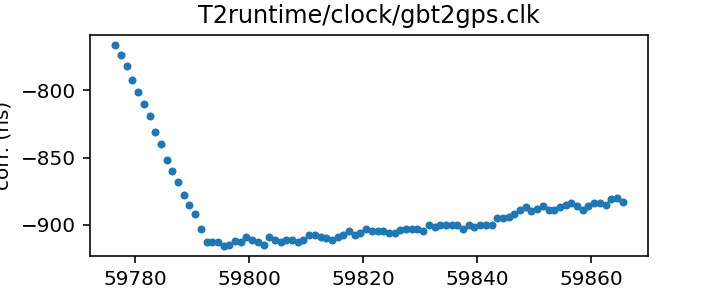
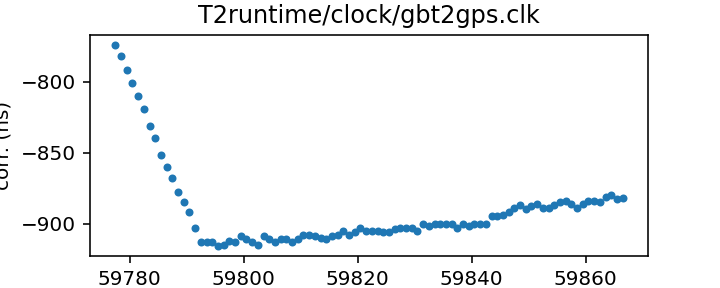
Routine gh-pages update from Github action Sat Oct 15 20:41:13 UTC 2022

diff --git a/status.md b/status.md
@@ -13,17 +13,17 @@ name of each clock file links to a page with more details.
 
 | Name | File | Corrections start | Corrections end | Last check date | Last check result 
 |:--- |:--- | --- | --- | --- |:--- 
-| [GPS to UTC](T2runtime/clock/gps2utc.clk.html) | `T2runtime/clock/gps2utc.clk` | 1993-01-01 MJD 48988.0 | 2022-09-27 MJD 59849.0 | 2022-10-14 | Unchanged 
-| [GPS to UTC (Combined Clock)](T2runtime/clock/gps2utc_cc.clk.html) | `T2runtime/clock/gps2utc_cc.clk` | 1993-01-01 MJD 48988.0 | 2022-09-27 MJD 59849.0 | 2022-10-14 | Unchanged 
-| [GPS to UTC (Corrected)](T2runtime/clock/gps2utc_c0p.clk.html) | `T2runtime/clock/gps2utc_c0p.clk` | 2010-12-29 MJD 55559.0 | 2022-09-27 MJD 59849.0 | 2022-10-14 | Unchanged 
-| [GBT](tempo/clock/time_gbt.dat.html) | `tempo/clock/time_gbt.dat` | 2000-12-31 MJD 51909.5 | 2022-10-13 MJD 59865.5 | 2022-10-14 | Updated 
-| [GBT (TEMPO2 converted from TEMPO)](T2runtime/clock/gbt2gps.clk.html) | `T2runtime/clock/gbt2gps.clk` | 2000-12-31 MJD 51909.5 | 2022-10-13 MJD 59865.5 | 2022-10-14 | Updated 
+| [GPS to UTC](T2runtime/clock/gps2utc.clk.html) | `T2runtime/clock/gps2utc.clk` | 1993-01-01 MJD 48988.0 | 2022-09-27 MJD 59849.0 | 2022-10-15 | Unchanged 
+| [GPS to UTC (Combined Clock)](T2runtime/clock/gps2utc_cc.clk.html) | `T2runtime/clock/gps2utc_cc.clk` | 1993-01-01 MJD 48988.0 | 2022-09-27 MJD 59849.0 | 2022-10-15 | Unchanged 
+| [GPS to UTC (Corrected)](T2runtime/clock/gps2utc_c0p.clk.html) | `T2runtime/clock/gps2utc_c0p.clk` | 2010-12-29 MJD 55559.0 | 2022-09-27 MJD 59849.0 | 2022-10-15 | Unchanged 
+| [GBT](tempo/clock/time_gbt.dat.html) | `tempo/clock/time_gbt.dat` | 2000-12-31 MJD 51909.5 | 2022-10-14 MJD 59866.5 | 2022-10-15 | Updated 
+| [GBT (TEMPO2 converted from TEMPO)](T2runtime/clock/gbt2gps.clk.html) | `T2runtime/clock/gbt2gps.clk` | 2000-12-31 MJD 51909.5 | 2022-10-14 MJD 59866.5 | 2022-10-15 | Updated 
 | [Jodrell Bank](T2runtime/clock/jb2gps.clk.html) | `T2runtime/clock/jb2gps.clk` | 2006-10-13 MJD 54021.4 | 2021-11-03 MJD 59521.0 | 2022-10-12 | Unchanged 
 | [Jodrell Bank Roach](T2runtime/clock/jbroach2jb.clk.html) | `T2runtime/clock/jbroach2jb.clk` | 2006-10-13 MJD 54021.4 | 2018-03-20 MJD 58197.6 | 2022-10-12 | Unchanged 
 | [Jodrell Bank DFB](T2runtime/clock/jbdfb2jb.clk.html) | `T2runtime/clock/jbdfb2jb.clk` | 2006-10-13 MJD 54021.4 | 2017-05-11 MJD 57884.0 | 2022-10-12 | Unchanged 
 | [Meerkat (observatory)](T2runtime/clock/mk2utc_observatory.clk.html) | `T2runtime/clock/mk2utc_observatory.clk` | 2019-01-01 MJD 58484.0 | 2022-09-21 MJD 59844.0 | 2022-10-10 | Updated 
-| [Leap seconds](tempo/clock/leap.sec.html) | `tempo/clock/leap.sec` | 1972-07-01 MJD 41499.0 | 2017-01-01 MJD 57754.0 | 2022-10-14 | Unchanged 
-| [UT1 table](tempo/clock/ut1.dat.html) | `tempo/clock/ut1.dat` | 1973-01-02 MJD 41684.0 | 2023-10-21 MJD 60238.0 | 2022-10-14 | Unchanged 
+| [Leap seconds](tempo/clock/leap.sec.html) | `tempo/clock/leap.sec` | 1972-07-01 MJD 41499.0 | 2017-01-01 MJD 57754.0 | 2022-10-15 | Unchanged 
+| [UT1 table](tempo/clock/ut1.dat.html) | `tempo/clock/ut1.dat` | 1973-01-02 MJD 41684.0 | 2023-10-21 MJD 60238.0 | 2022-10-15 | Unchanged 
 
 
 

diff --git a/T2runtime/clock/gbt2gps.clk.md b/T2runtime/clock/gbt2gps.clk.md
@@ -23,14 +23,13 @@ If questions arise about the conversion, contact Anne Archibald
 | Format | tempo2 |
 | Bogus last correction | False |
 | Clock file start | 2000-12-31 MJD 51909.5 |
-| Clock file end | 2022-10-13 MJD 59865.5 |
+| Clock file end | 2022-10-14 MJD 59866.5 |
 | Update interval (days) | 1 |
-| Last update attempt | 2022-10-14 |
+| Last update attempt | 2022-10-15 |
 | Last update result | Updated |
 
 Log entries from the last few update attempts:
 ```
-2022-10-05 20:42:13.766 - Updated
 2022-10-06 20:41:51.390 - Updated
 2022-10-07 20:41:30.708 - Updated
 2022-10-08 20:39:39.580 - Updated
@@ -40,12 +39,13 @@ Log entries from the last few update attempts:
 2022-10-12 20:43:13.750 - Updated
 2022-10-13 20:42:36.560 - Updated
 2022-10-14 20:45:27.817 - Updated
+2022-10-15 20:40:47.403 - Updated
 ```
 [Full log](https://raw.githubusercontent.com/ipta/pulsar-clock-corrections/main/log/T2runtime/clock/gbt2gps.clk.log)
 
 Leading comments from clock file:
 
-    # This file was automatically converted from tempo/clock/time_gbt.dat on 2022-10-14 20:45:27.748
+    # This file was automatically converted from tempo/clock/time_gbt.dat on 2022-10-15 20:40:47.331
 
 
 

diff --git a/tempo/clock/time_gbt.dat.md b/tempo/clock/time_gbt.dat.md
@@ -18,14 +18,13 @@ If questions arise, contact Ryan S. Lynch <rlynch@nrao.edu>.
 | Format | tempo |
 | Bogus last correction | False |
 | Clock file start | 2000-12-31 MJD 51909.5 |
-| Clock file end | 2022-10-13 MJD 59865.5 |
+| Clock file end | 2022-10-14 MJD 59866.5 |
 | Update interval (days) | 1 |
-| Last update attempt | 2022-10-14 |
+| Last update attempt | 2022-10-15 |
 | Last update result | Updated |
 
 Log entries from the last few update attempts:
 ```
-2022-10-05 20:42:13.674 - Updated
 2022-10-06 20:41:51.320 - Updated
 2022-10-07 20:41:30.638 - Updated
 2022-10-08 20:39:39.511 - Updated
@@ -35,6 +34,7 @@ Log entries from the last few update attempts:
 2022-10-12 20:43:13.648 - Updated
 2022-10-13 20:42:36.488 - Updated
 2022-10-14 20:45:27.746 - Updated
+2022-10-15 20:40:47.329 - Updated
 ```
 [Full log](https://raw.githubusercontent.com/ipta/pulsar-clock-corrections/main/log/tempo/clock/time_gbt.dat.log)
 

diff --git a/T2runtime/clock/gps2utc_c0p.clk.md b/T2runtime/clock/gps2utc_c0p.clk.md
@@ -30,12 +30,11 @@ about the BIPM's published corrections, contact <tai@bipm.org>.
 | Clock file start | 2010-12-29 MJD 55559.0 |
 | Clock file end | 2022-09-27 MJD 59849.0 |
 | Update interval (days) | 1 |
-| Last update attempt | 2022-10-14 |
+| Last update attempt | 2022-10-15 |
 | Last update result | Unchanged |
 
 Log entries from the last few update attempts:
 ```
-2022-10-05 20:42:12.788 - Unchanged
 2022-10-06 20:41:50.814 - Unchanged
 2022-10-07 20:41:30.274 - Unchanged
 2022-10-08 20:39:38.994 - Unchanged
@@ -45,6 +44,7 @@ Log entries from the last few update attempts:
 2022-10-12 20:43:12.700 - Unchanged
 2022-10-13 20:42:35.977 - Unchanged
 2022-10-14 20:45:27.331 - Unchanged
+2022-10-15 20:40:46.508 - Unchanged
 ```
 [Full log](https://raw.githubusercontent.com/ipta/pulsar-clock-corrections/main/log/T2runtime/clock/gps2utc_c0p.clk.log)
 

diff --git a/T2runtime/clock/gps2utc_cc.clk.md b/T2runtime/clock/gps2utc_cc.clk.md
@@ -29,12 +29,11 @@ about the BIPM's published corrections, contact <tai@bipm.org>.
 | Clock file start | 1993-01-01 MJD 48988.0 |
 | Clock file end | 2022-09-27 MJD 59849.0 |
 | Update interval (days) | 1 |
-| Last update attempt | 2022-10-14 |
+| Last update attempt | 2022-10-15 |
 | Last update result | Unchanged |
 
 Log entries from the last few update attempts:
 ```
-2022-10-05 20:42:12.774 - Unchanged
 2022-10-06 20:41:50.803 - Unchanged
 2022-10-07 20:41:30.264 - Unchanged
 2022-10-08 20:39:38.983 - Unchanged
@@ -44,6 +43,7 @@ Log entries from the last few update attempts:
 2022-10-12 20:43:12.687 - Unchanged
 2022-10-13 20:42:35.966 - Unchanged
 2022-10-14 20:45:27.319 - Unchanged
+2022-10-15 20:40:46.497 - Unchanged
 ```
 [Full log](https://raw.githubusercontent.com/ipta/pulsar-clock-corrections/main/log/T2runtime/clock/gps2utc_cc.clk.log)
 

diff --git a/T2runtime/clock/gps2utc.clk.md b/T2runtime/clock/gps2utc.clk.md
@@ -32,12 +32,11 @@ about the BIPM's published corrections, contact <tai@bipm.org>.
 | Clock file start | 1993-01-01 MJD 48988.0 |
 | Clock file end | 2022-09-27 MJD 59849.0 |
 | Update interval (days) | 1 |
-| Last update attempt | 2022-10-14 |
+| Last update attempt | 2022-10-15 |
 | Last update result | Unchanged |
 
 Log entries from the last few update attempts:
 ```
-2022-10-05 20:42:12.730 - Unchanged
 2022-10-06 20:41:50.771 - Unchanged
 2022-10-07 20:41:30.232 - Unchanged
 2022-10-08 20:39:38.951 - Unchanged
@@ -47,6 +46,7 @@ Log entries from the last few update attempts:
 2022-10-12 20:43:12.646 - Unchanged
 2022-10-13 20:42:35.932 - Unchanged
 2022-10-14 20:45:27.287 - Unchanged
+2022-10-15 20:40:46.462 - Unchanged
 ```
 [Full log](https://raw.githubusercontent.com/ipta/pulsar-clock-corrections/main/log/T2runtime/clock/gps2utc.clk.log)
 

diff --git a/tempo/clock/leap.sec.md b/tempo/clock/leap.sec.md
@@ -21,12 +21,11 @@ If there are any questions, contact Anne Archibald
 | File start | 1972-07-01 MJD 41499.0 |
 | File end | 2017-01-01 MJD 57754.0 |
 | Update interval (days) | 0 |
-| Last update attempt | 2022-10-14 |
+| Last update attempt | 2022-10-15 |
 | Last update result | Unchanged |
 
 Log entries from the last few update attempts:
 ```
-2022-10-05 20:42:20.529 - Unchanged
 2022-10-06 20:41:55.720 - Unchanged
 2022-10-07 20:41:30.741 - Unchanged
 2022-10-08 20:39:39.613 - Unchanged
@@ -36,5 +35,6 @@ Log entries from the last few update attempts:
 2022-10-12 20:43:20.771 - Unchanged
 2022-10-13 20:42:40.211 - Unchanged
 2022-10-14 20:45:27.850 - Unchanged
+2022-10-15 20:40:47.436 - Unchanged
 ```
 [Full log](https://raw.githubusercontent.com/ipta/pulsar-clock-corrections/main/log/tempo/clock/leap.sec.log)

diff --git a/tempo/clock/ut1.dat.md b/tempo/clock/ut1.dat.md
@@ -30,12 +30,11 @@ If there are any questions, contact Anne Archibald
 | File start | 1973-01-02 MJD 41684.0 |
 | File end | 2023-10-21 MJD 60238.0 |
 | Update interval (days) | 0 |
-| Last update attempt | 2022-10-14 |
+| Last update attempt | 2022-10-15 |
 | Last update result | Unchanged |
 
 Log entries from the last few update attempts:
 ```
-2022-10-05 20:42:33.854 - Unchanged
 2022-10-06 20:42:03.973 - Updated
 2022-10-07 20:41:38.724 - Unchanged
 2022-10-08 20:39:48.045 - Unchanged
@@ -45,5 +44,6 @@ Log entries from the last few update attempts:
 2022-10-12 20:43:33.565 - Unchanged
 2022-10-13 20:42:47.532 - Updated
 2022-10-14 20:45:35.705 - Unchanged
+2022-10-15 20:40:57.535 - Unchanged
 ```
 [Full log](https://raw.githubusercontent.com/ipta/pulsar-clock-corrections/main/log/tempo/clock/ut1.dat.log)
